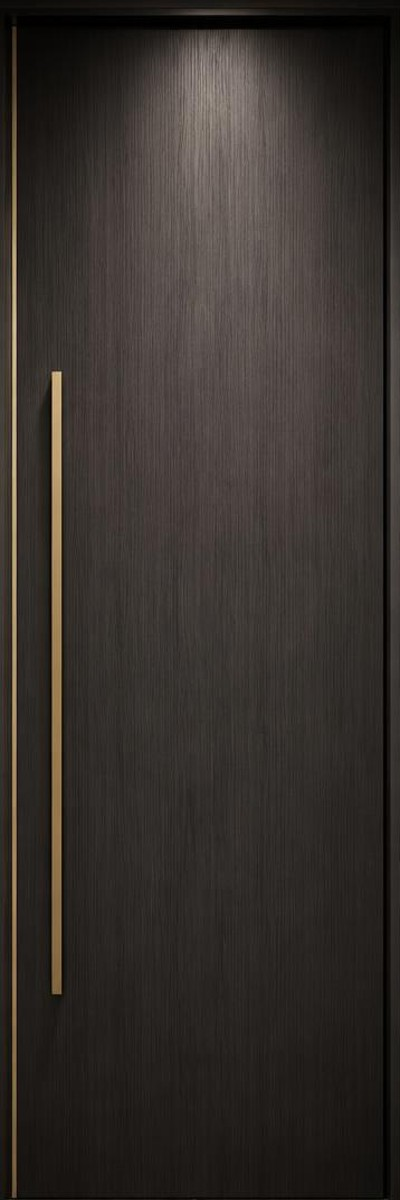
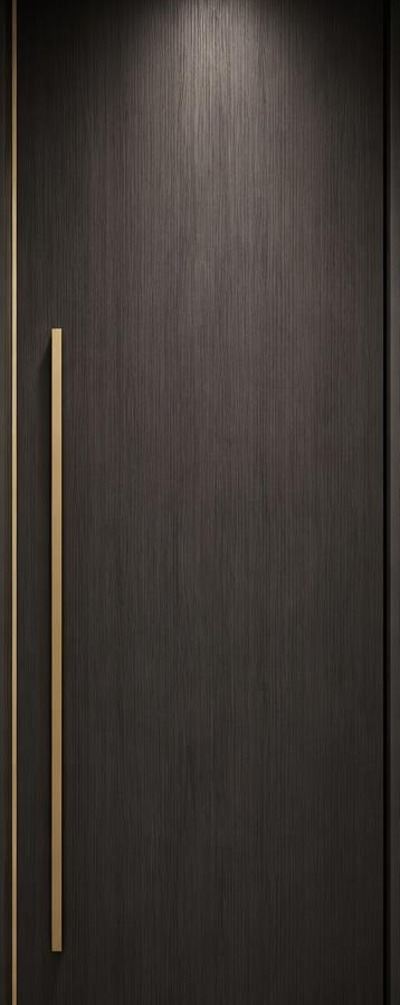
Welcome doors: crop the frame baked into the door photo
Dvir kept seeing the doors as a smaller rectangle sitting on a larger
image. It was not a layer behind them — hiding the stone portal frame
changed nothing. Measuring the source photo found the cause:
door-modern.jpg carried 43px of dark lintel at the top and 152px of
dark floor shadow at the bottom of its 1200px height. Stretched to the
panel that became roughly 29px and 103px of dark band across the top
and bottom of the screen — a border framing the doors.

Cropped to 400x1005 so the door face runs edge to edge. The original is
unchanged in git history if we ever want the floor back.

diff --git a/src/server.ts b/src/server.ts
@@ -13,7 +13,7 @@ import { renderErrorPage } from "./lib/error-page";
  *
  * שורה אחת ב-curl עונה על זה עכשיו, בלי לנחש.
  */
-const BUILD_STAMP = "2026-08-04T18:40Z";
+const BUILD_STAMP = "2026-08-04T19:25Z";
 
 type ServerEntry = {
   fetch: (request: Request, env: unknown, ctx: unknown) => Promise<Response> | Response;
